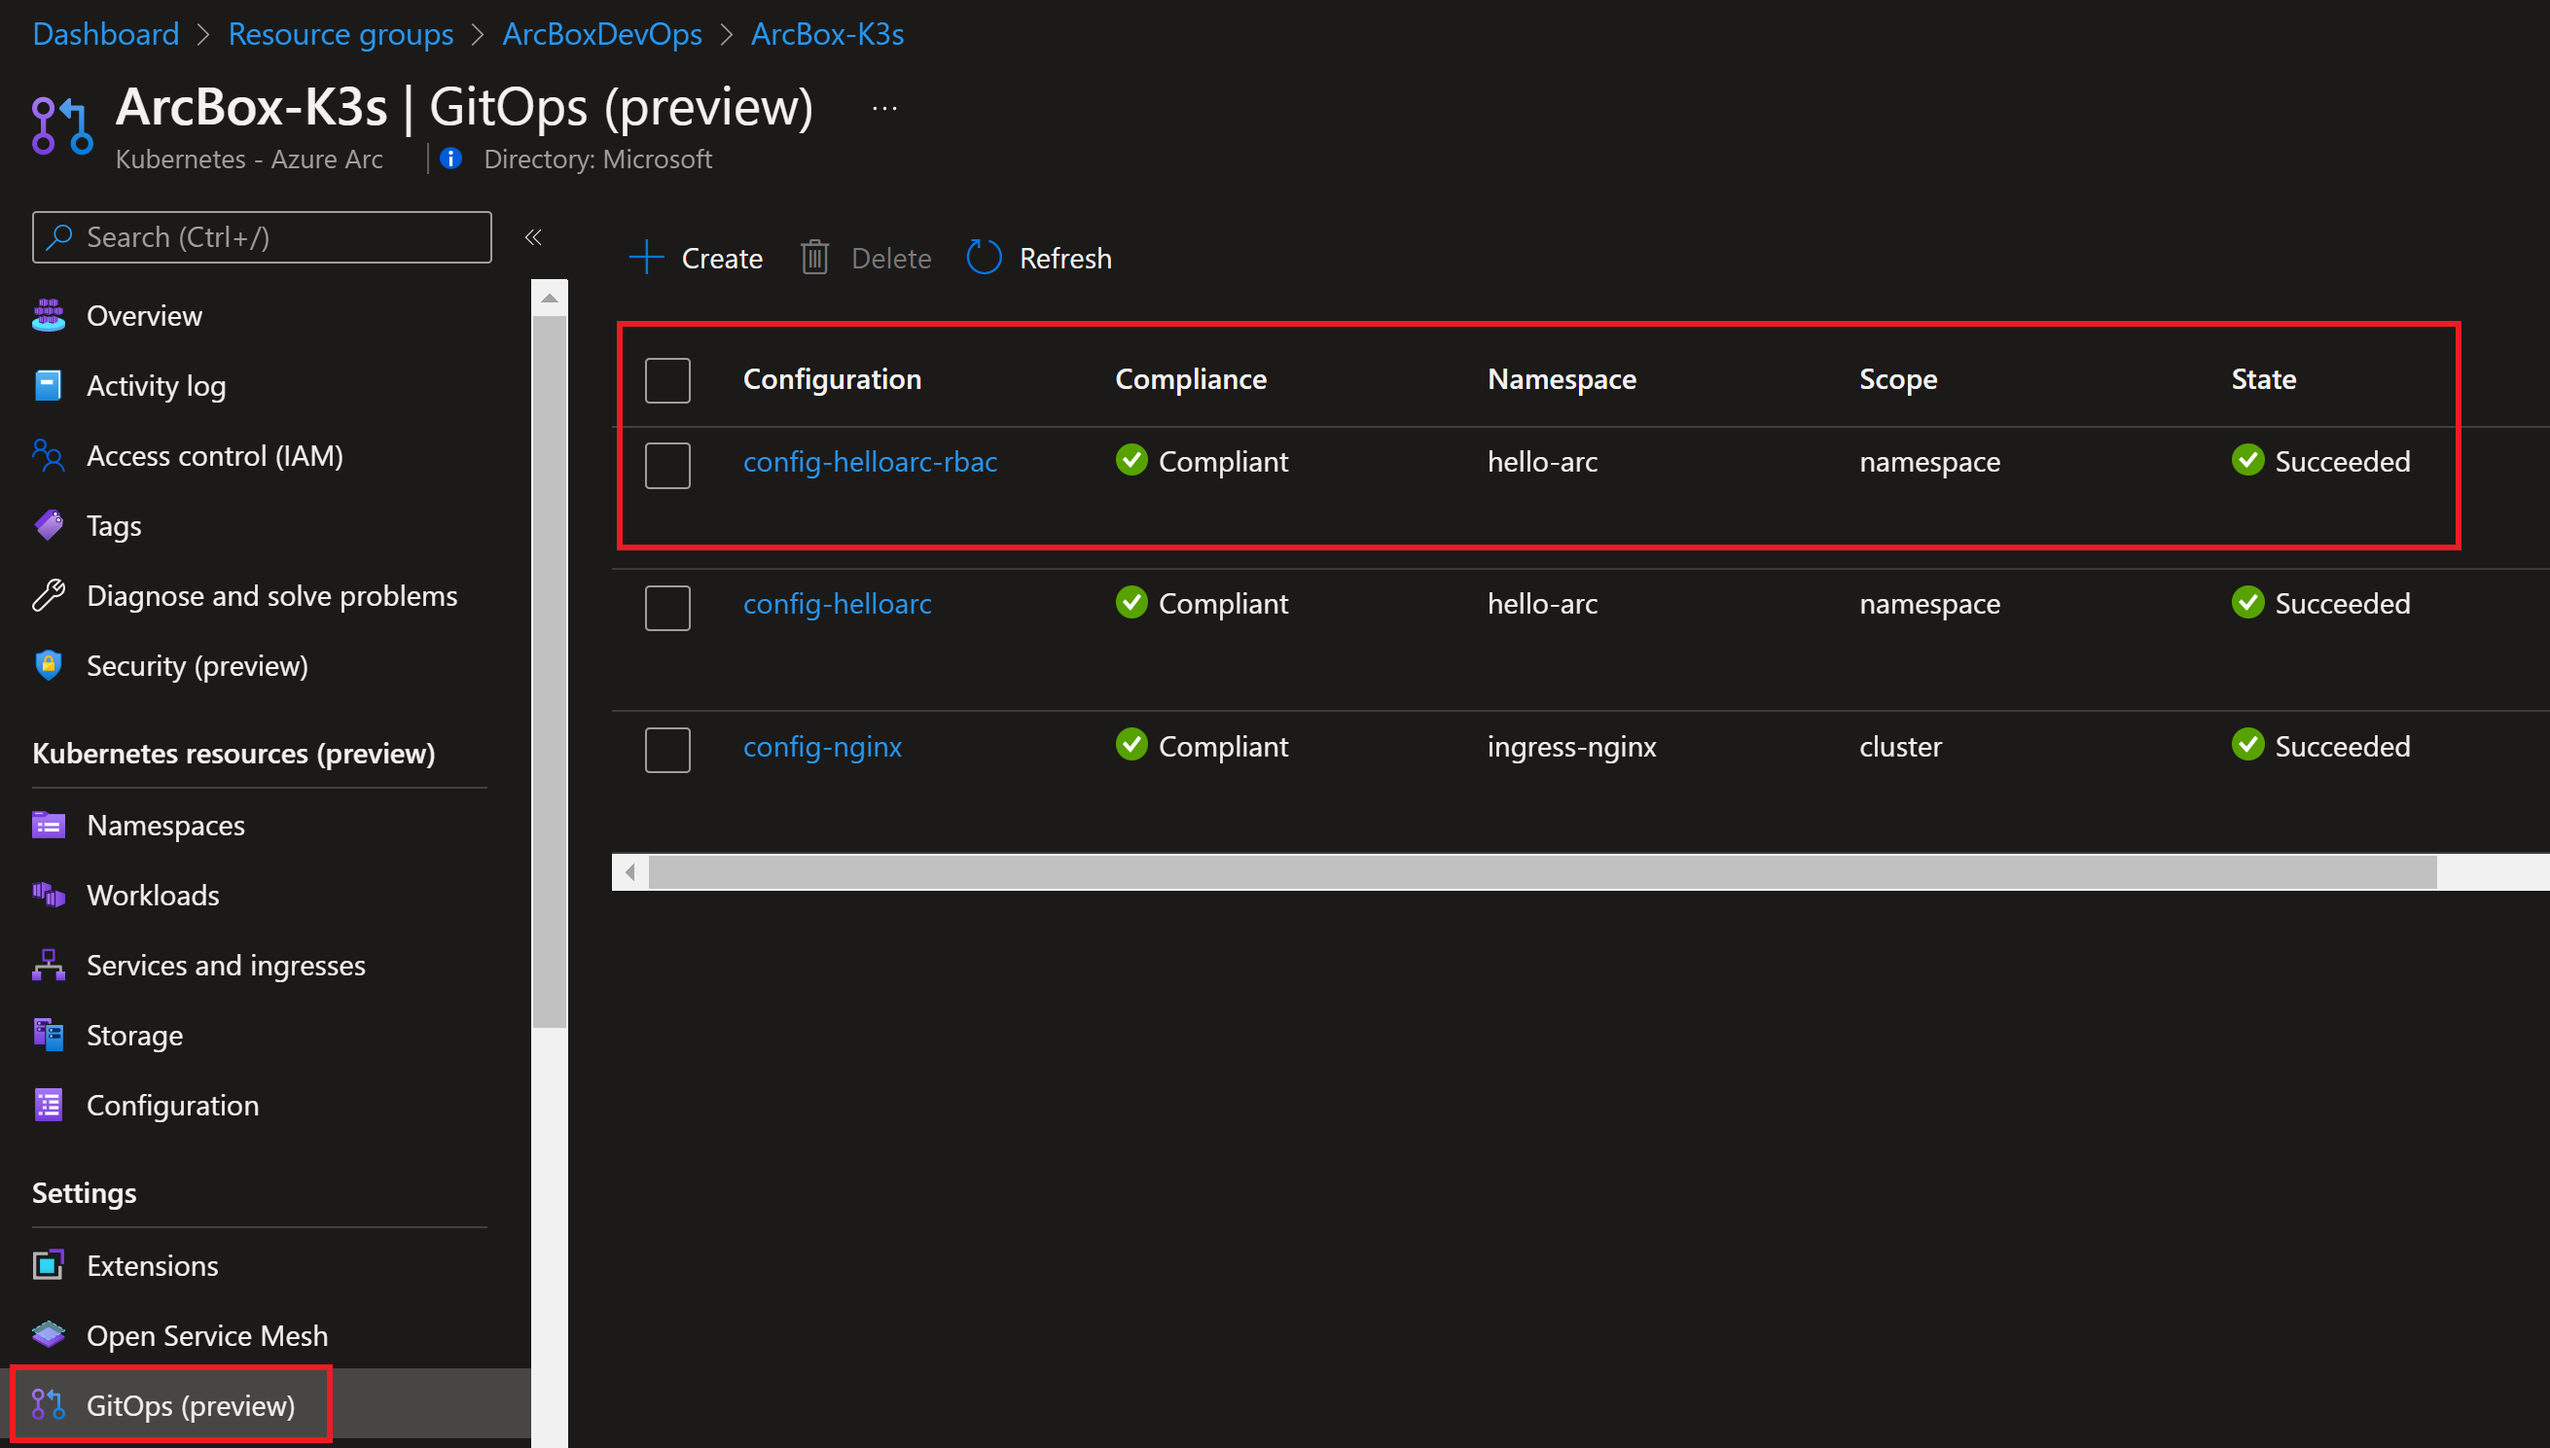
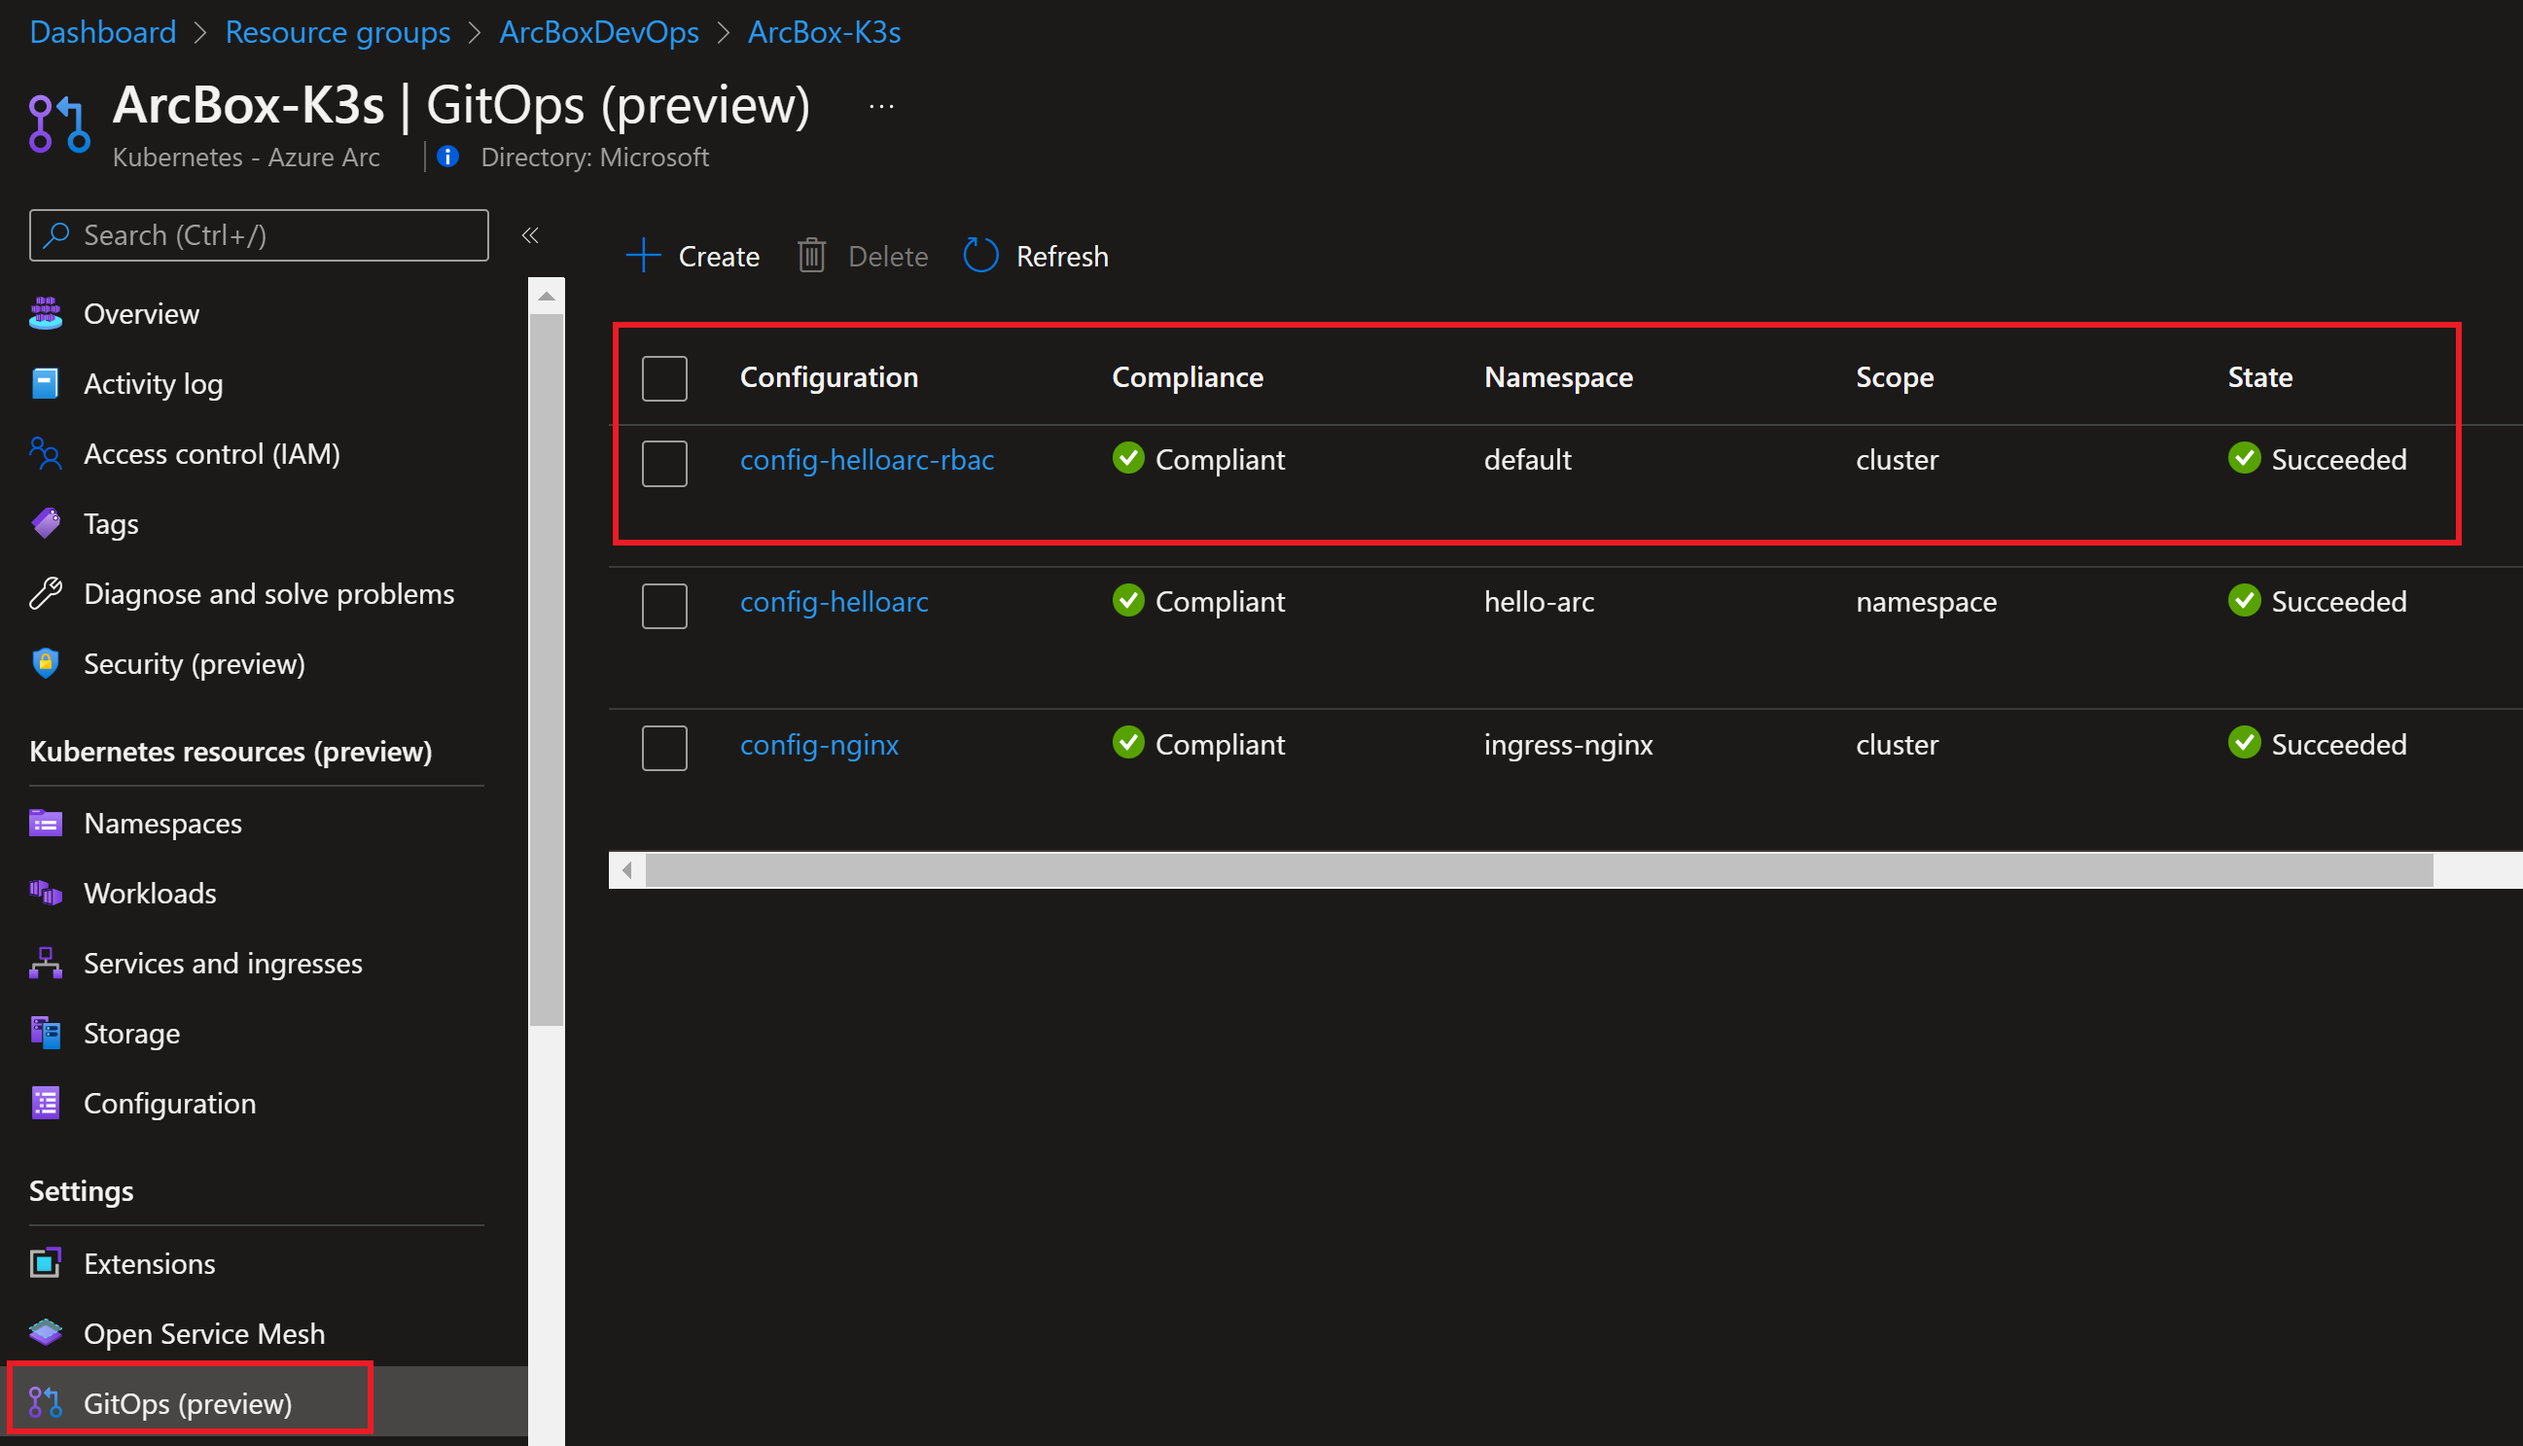
add rbac cluster scenario

diff --git a/docs/azure_jumpstart_arcbox/DevOps/_index.md b/docs/azure_jumpstart_arcbox/DevOps/_index.md
@@ -582,7 +582,7 @@ Optionally, you can explore additional GitOps and RBAC scenarios in a manual fas
   - Browse to the _K3sRBAC.ps1_ script placed under _C:\ArcBox\GitOps_. The script will:
     - Log in to your Azure subscription using the SPN credentials
     - Connect to _ArcBox-k3s_ cluster
-    - Create the GitOps configurations to deploy the RBAC configurations for hello-arc namespace
+    - Create the GitOps configurations to deploy the Namespace and Cluster scope RBAC configurations
 
   - Right click _K3sGitOps.ps1_ script and select Run with PowerShell to execute the script.
   
@@ -604,7 +604,7 @@ Optionally, you can explore additional GitOps and RBAC scenarios in a manual fas
 
     ![Screenshot showing hello-arc RBAC get pods](./k3s_rbac03.png)
 
-  - Validate the RBAC role to get the pods as user Jane.
+  - Validate the namespace RBAC role to get the pods as user Jane.
 
     ```shell
     kubectl --namespace hello-arc get pods --as=jane
@@ -620,6 +620,31 @@ Optionally, you can explore additional GitOps and RBAC scenarios in a manual fas
     ```
 
     ![Screenshot showing hello-arc RBAC delete pods](./k3s_rbac05.png)
+
+  - Show the Cluster Role and Role Binding.
+  
+    ```shell
+    kubectl get clusterrole | Select-String secret-reader
+    kubectl get clusterrolebinding | Select-String read-secrets-global
+    ```
+
+    ![Screenshot showing hello-arc RBAC get pods](./k3s_rbac06.png)
+
+  - Validate the cluster role to get the secrets as user Dave.
+
+    ```shell
+    kubectl get secrets --as=dave
+    ```
+
+    ![Screenshot showing hello-arc RBAC get pods](./k3s_rbac07.png)
+
+  - Test the RBAC role assignment, if Dave can create the secrets. The operation fails, as the user, Dave is assigned to the role of secret-reader. The secret-reader role only allows get, watch and list permissions.
+
+    ```shell
+    kubectl create secret generic arcbox-secret --from-literal=username=arcdemo --as=dave
+    ```
+
+    ![Screenshot showing hello-arc RBAC delete pods](./k3s_rbac08.png)
 
 ### ArcBox Azure Monitor workbook
 
